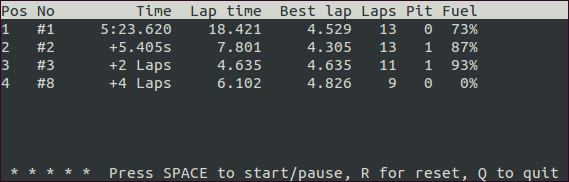
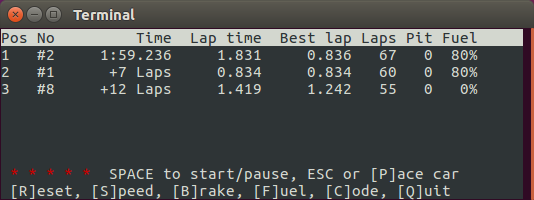
Release v0.4.1.

diff --git a/carreralib/__main__.py b/carreralib/__main__.py
@@ -34,7 +34,8 @@ class RMS(object):
     HEADER = 'Pos No         Time  Lap time  Best lap Laps Pit Fuel'
     FORMAT = ('{pos:<4}#{car:<2}{time:>12}{laptime:>10}{bestlap:>10}' +
               '{laps:>5}{pits:>4}{fuel:>5.0%}')
-    FOOTER = ' * * * * *  SPACE to start/pause, ESC or [P]ace car, [R]eset, [S]peed, [B]rake, [F]uel, [C]ode, [Q]uit'
+    FOOTER1 = ' * * * * *  SPACE to start/pause, ESC or [P]ace car'
+    FOOTER2 = ' [R]eset, [S]peed, [B]rake, [F]uel, [C]ode, [Q]uit'
 
     class Driver(object):
         def __init__(self, num):
@@ -140,17 +141,18 @@ class RMS(object):
         window.clear()
         nlines, ncols = window.getmaxyx()
         window.addnstr(0, 0, self.HEADER.ljust(ncols), ncols, self.titleattr)
-        window.addnstr(nlines - 1, 0, self.FOOTER, ncols - 1)
+        window.addnstr(nlines - 2, 0, self.FOOTER1, ncols - 1)
+        window.addnstr(nlines - 1, 0, self.FOOTER2, ncols - 1)
 
         start = self.status.start
         if start == 0 or start == 7:
             pass
         elif start == 1:
-            window.chgat(nlines - 1, 0, 2 * 5, self.lightattr)
+            window.chgat(nlines - 2, 0, 2 * 5, self.lightattr)
         elif start < 7:
-            window.chgat(nlines - 1, 0, 2 * (start - 1), self.lightattr)
+            window.chgat(nlines - 2, 0, 2 * (start - 1), self.lightattr)
         elif int(time.time() * 2) % 2 == 0:  # A_BLINK may not be supported
-            window.chgat(nlines - 1, 0, 2 * 5, self.lightattr)
+            window.chgat(nlines - 2, 0, 2 * 5, self.lightattr)
 
         drivers = [driver for driver in self.drivers if driver.time]
         for pos, driver in enumerate(sorted(drivers, key=posgetter), start=1):

diff --git a/README.rst b/README.rst
@@ -53,10 +53,6 @@ Project Resources
    :target: https://pypi.python.org/pypi/carreralib/
    :alt: Latest PyPI version
 
-.. image:: http://img.shields.io/pypi/dm/carreralib.svg?style=flat
-   :target: https://pypi.python.org/pypi/carreralib/
-   :alt: Number of PyPI downloads
-
 .. image:: http://img.shields.io/travis/tkem/carreralib/master.svg?style=flat
     :target: https://travis-ci.org/tkem/carreralib/
     :alt: Travis CI build status

diff --git a/CHANGES.rst b/CHANGES.rst
@@ -1,3 +1,9 @@
+0.4.1 2017-05-06
+----------------
+
+- Minor demo UI improvements.
+
+
 0.4.0 2017-05-06
 ----------------
 
